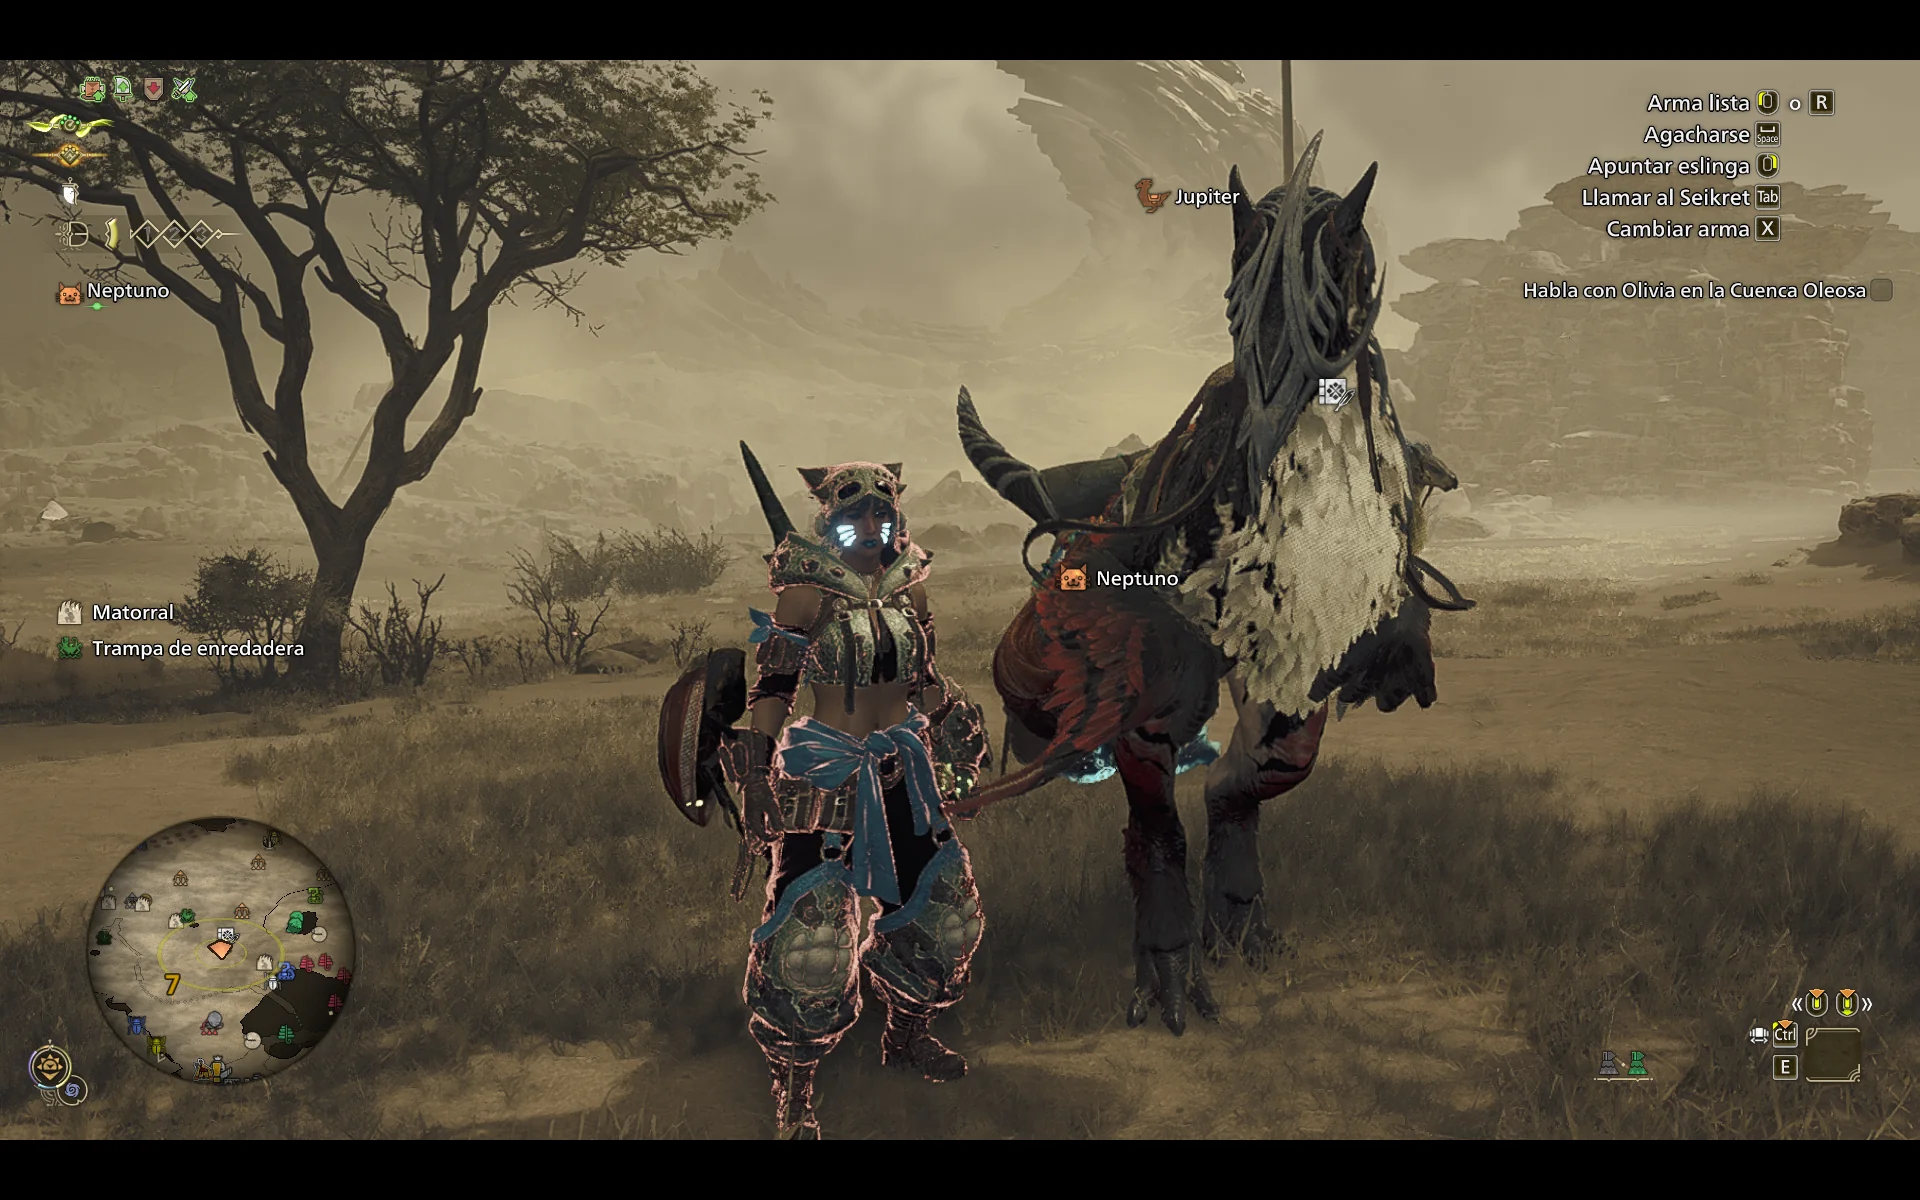
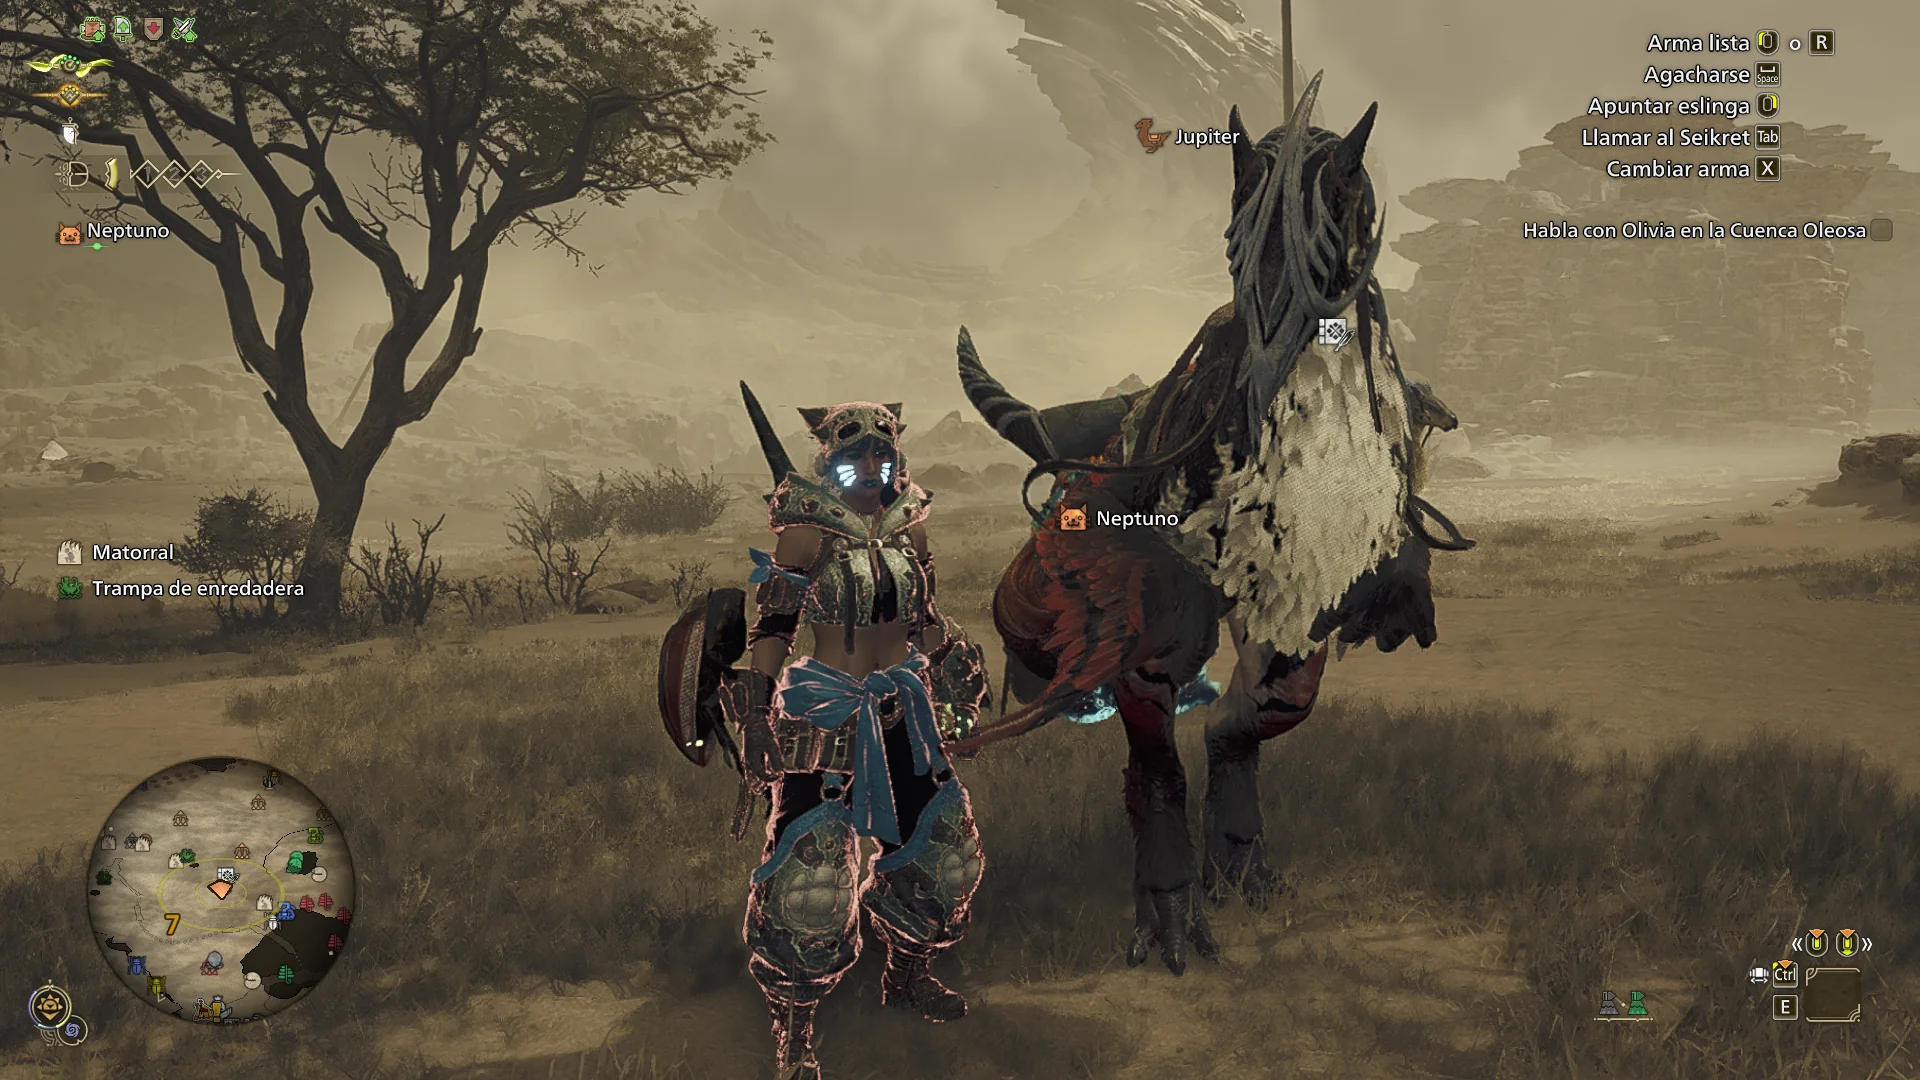
Tour: the game screenshots without their black bars (16:9 on the 16:10 screen)
Assisted-by: Claude Opus 5.5

diff --git a/docs/tour.md b/docs/tour.md
@@ -1,7 +1,7 @@
 # A tour
 
 What the Legion Go 2 is like to use with this setup, from power-on to playing. Every picture is a screenshot of the
-real machine (1920×1200, October 2026). The pages linked under each one explain how it is done.
+real machine (1920×1200, October 2026; the two games run at 16:9, shown without their black bars). The pages linked under each one explain how it is done.
 
 ## Power-on
 
